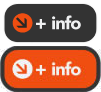
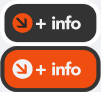
New png images (more standard and without compression artifacts) and minor css corrections

diff --git a/style.css b/style.css
@@ -44,7 +44,7 @@ html, body {
 body {
   margin: 0;
   padding: 0;
-  background: #f0f1f5;
+  background: url(images/bg/diagonal_pattern.png) repeat-x scroll 0 456px #F0F1F5;
   color: #2C2626;
   font: 16px/1.4em Arial, sans-serif;
 }
@@ -121,15 +121,16 @@ width:70px;
   margin-bottom: 25px;
   font-size: 261.3%;
   line-height: 1.1em;
-  padding: 10px;
-  background: url(images/bg/diagonal_pattern.png) repeat;
+  padding:8px 10px 6px;
+  background:url(images/bg/diagonal_pattern.png) repeat-x scroll 0 0 transparent;
   font-family:AvenirLTStd-Black, Arial, Helvetica;
-}    
-  .header_description strong {
-    font-weight: normal;
-    color: #F04C11;
-    background-color: transparent;
-  }
+}
+
+.header_description strong {
+  font-weight: normal;
+  color: #F04C11;
+  background-color: transparent;
+}
   
 .submenu {
   border-top: 8px solid #333;
